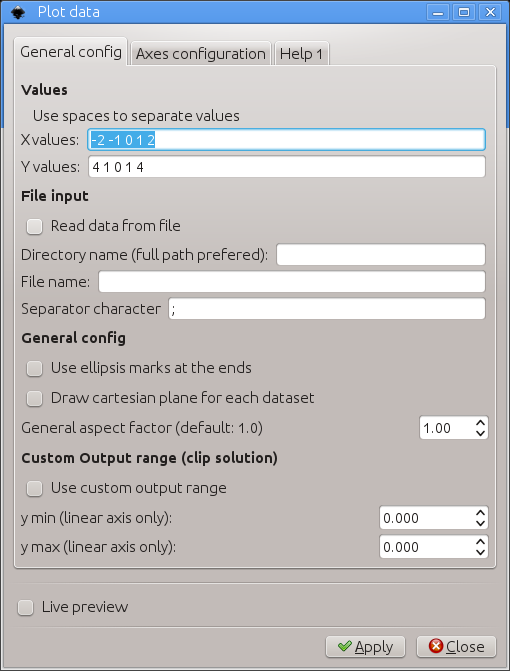
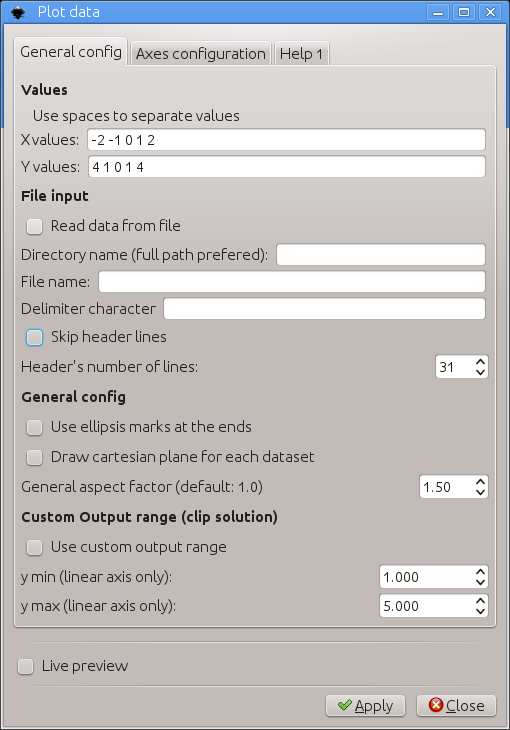
added the option to inform the file contains a header to be ignored

diff --git a/cartesianPlotData2D.py b/cartesianPlotData2D.py
@@ -45,6 +45,10 @@ class PlotData(inkBase.inkscapeMadeEasy):
     self.OptionParser.add_option("--fileName", action="store", type="string", dest="fileName", default='')
     self.OptionParser.add_option("--dirName", action="store", type="string", dest="dirName", default='')
     self.OptionParser.add_option("--charSeparator", action="store", type="string", dest="charSeparator", default=' ')
+    self.OptionParser.add_option("--skipHeader", action="store", type="inkbool", dest="skipHeader", default=False)
+    self.OptionParser.add_option("--headerSize",action="store", type="int",dest="headerSize", default=0)
+
+
 
     self.OptionParser.add_option("--useElipsis", action="store", type="inkbool", dest="useEllipsis", default=False)
     self.OptionParser.add_option("--drawAxis", action="store", type="inkbool", dest="drawAxis", default=False)
@@ -88,8 +92,10 @@ class PlotData(inkBase.inkscapeMadeEasy):
     if so.flagUseFile and os.path.isfile(filePath):
       
       s = open(filePath).read().replace(so.charSeparator,' ')
-      data = numpy.loadtxt(StringIO.StringIO(s))
-
+      if so.skipHeader:
+        data = numpy.loadtxt(StringIO.StringIO(s),skiprows=so.headerSize)
+      else:
+        data = numpy.loadtxt(StringIO.StringIO(s))
       XValuesVector=data[:,0].tolist()
 
       YValuesVector=[]

diff --git a/README.md b/README.md
@@ -71,9 +71,9 @@ Attention: The extension will not check whether the points are valid.
 
 **Read data from file:** If you toggle this option, you can provide inkscape with a text file containing the data.
 
-The text file must be organized as table of values. The first column is assumed to be the X data and the following columns Y data. You can provide more than one Y data set. In such case, the same X data is assumed for all plots
+The text file must be organized as table of values. The first column is assumed to be the X data and the following columns Y data. You can provide more than one Y data set. In such case, the same X data is assumed in all plots.
 
-All columns must have the same number of lines.
+All columns must have the same number of lines. The file can have one header with an arbitrary number of lines. In such case, you must inform the number of lines to be skipped (see below).
 
 The separator can be any character, except the following characters: `.` (dot), `+` (plus), `-`(minus), `E`, `e`. The values can be integer or float values in decimal or exponential notation (e.g. the value 120 can also be given as 1.2e+2
 
@@ -89,8 +89,11 @@ Example 1: (delimited by spaces)
 ```
 the extension will create **one** plot where the first column is used as X data and the second as Y data
 
-Example 1: (delimited by semicolons)
+Example 1: (delimited by semicolons, with a header containing 3 lines)
 ```
+Hello, this is my header
+second line
+another one!
 -2;4;0
 -1;2;1
  0;0;2
@@ -109,6 +112,9 @@ the extension will create two graphs, where:
 
 **Delimiter character:** Character used to delimit the columns of the file. If no character is informed, space is assumed
 
+**Skip header lines:** Toggle to inform that the file contains a header.
+
+**Header's number of lines:** Number of lines to be skipped in the header.
 
 **Use ellipsis marks at the ends:** Use ellipsis marks at the end of the plots to indicate continuation
 
